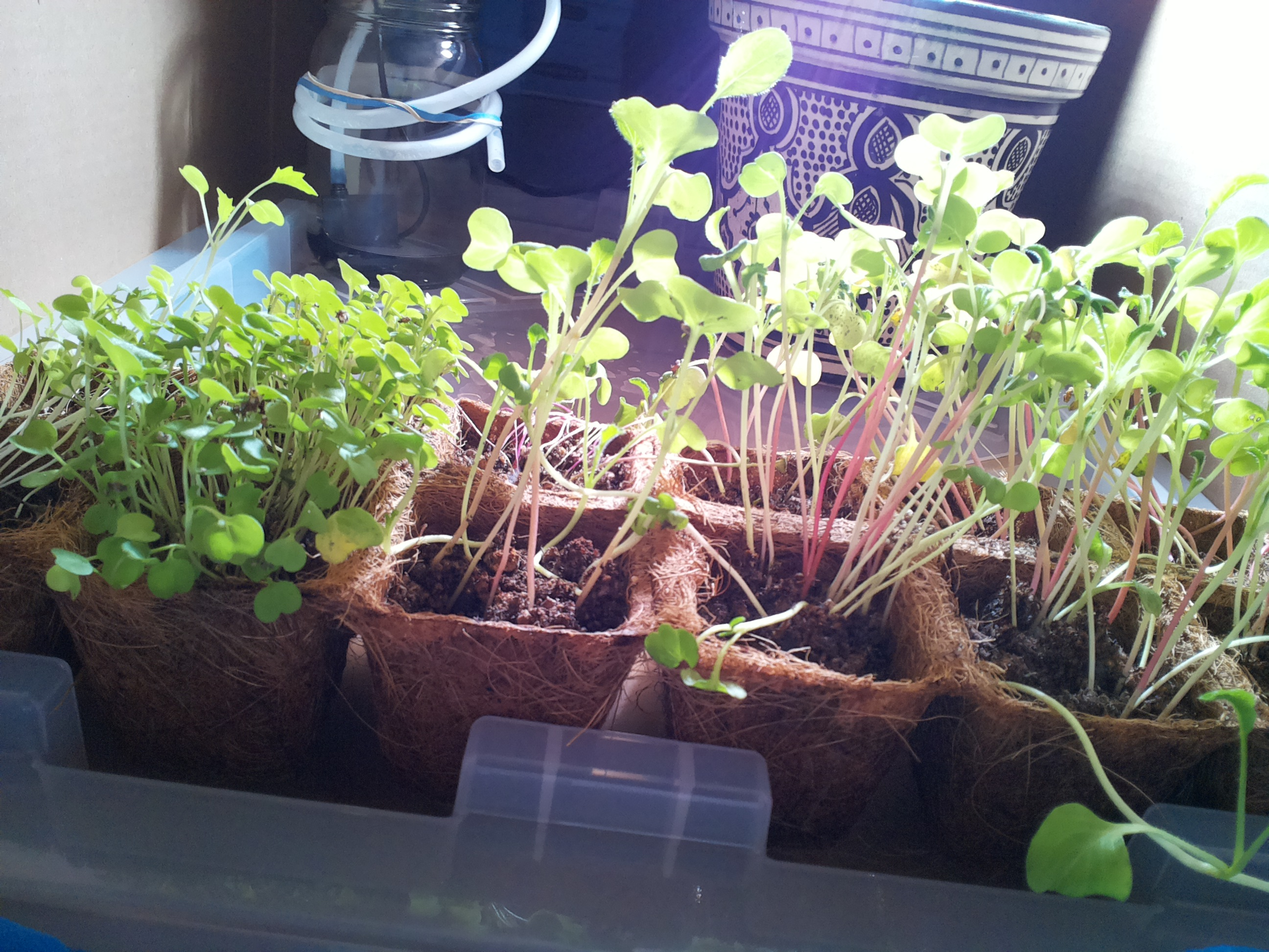
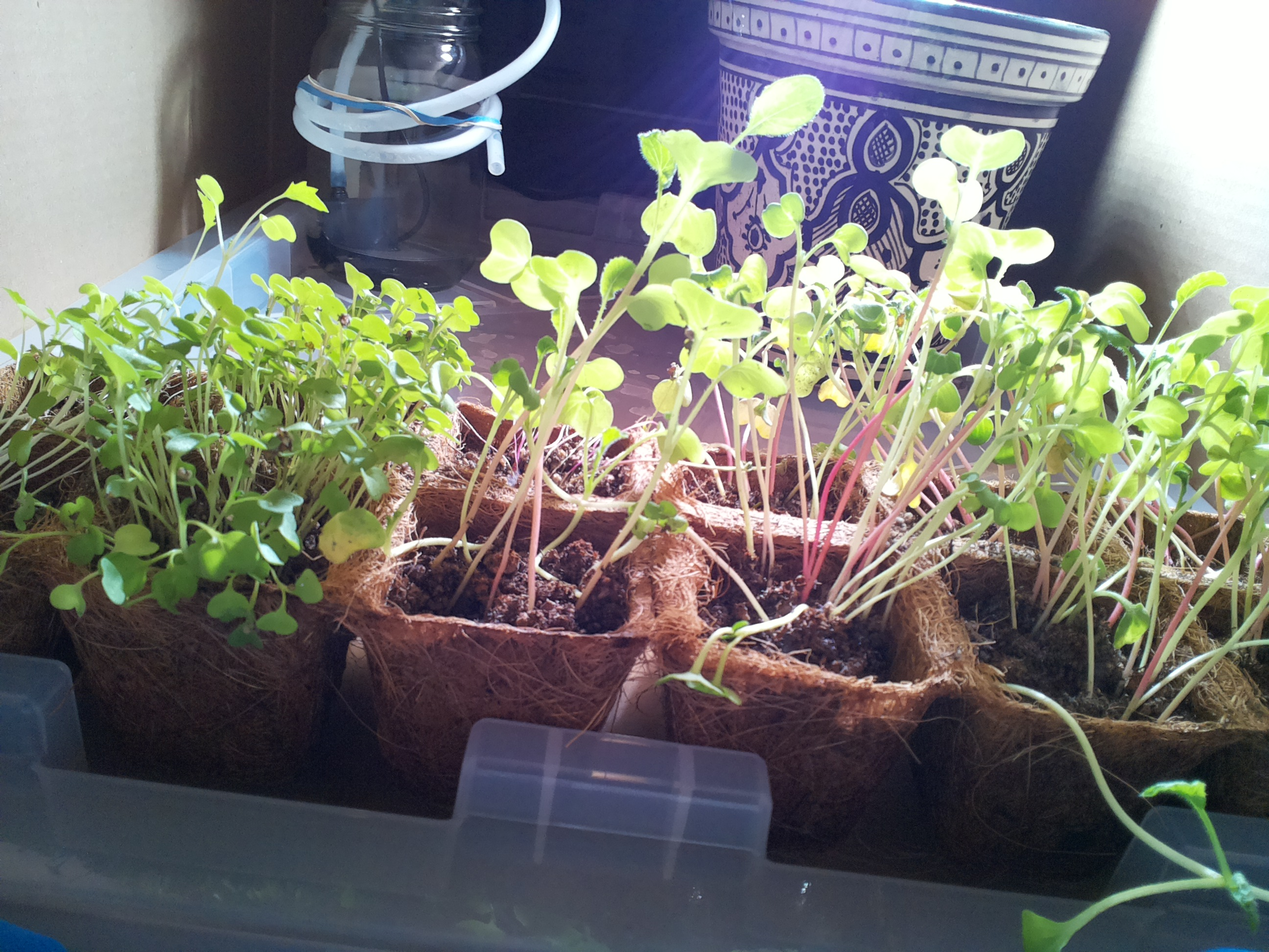
mirror sync 2026-09-11 19:30

diff --git a/home/bubbles/farmer-claude/JOURNAL.md b/home/bubbles/farmer-claude/JOURNAL.md
@@ -419,3 +419,11 @@
 - Lamp: on — correct for photoperiod.
 - Watering: none (observe-only per standing order 2); 4s of 60s daily cap used. Evening 19:22 pulse planned unless surfaces look dark.
 - No changes to standing orders. Still pending: verify lamp-sync.sh fires in logs/cron.log after the next reboot.
+
+### 2026-09-11 19:22 — evening check-in (cron)
+- Photo: seedlings vigorous in all 12 cells (day 18) — tall, leggy, cotyledons broad, turgid, and green; true leaves growing with fine hairs clearly visible; pink stems on several (brassica-like, normal). No wilting, mold, pests, or tipping. Tube outlet in place beside the jar over the lid (confirmed in zoom).
+- Jar: zoomed photo shows the glass dark through the visible body — water still present and covering the pump, refill holding. Foliage blocks much of the lower view.
+- Soil: mixed — dark damp centers, drier crumbly spots with perlite showing; coir walls pale. Not uniformly dark → pulse warranted.
+- Lamp: on — correct for photoperiod.
+- Watering: 4s pulse per standing order 2 (8s of 60s daily cap used; water.py OK, pump plug verified OFF after).
+- No changes to standing orders. Next: 07:12 pulse unless surfaces look dark. Still pending: verify lamp-sync.sh fires in logs/cron.log after the next reboot.
